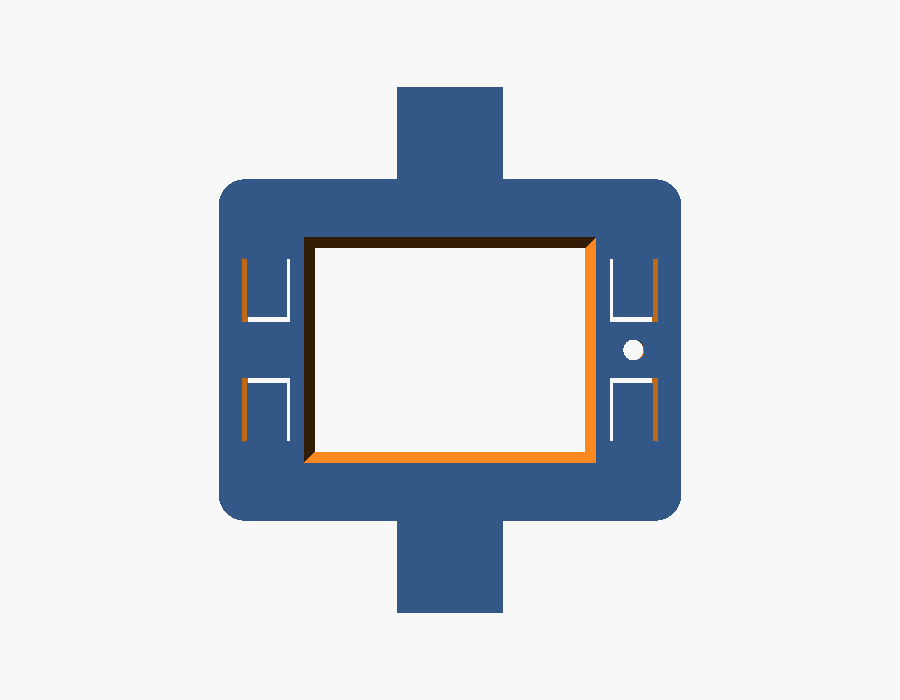
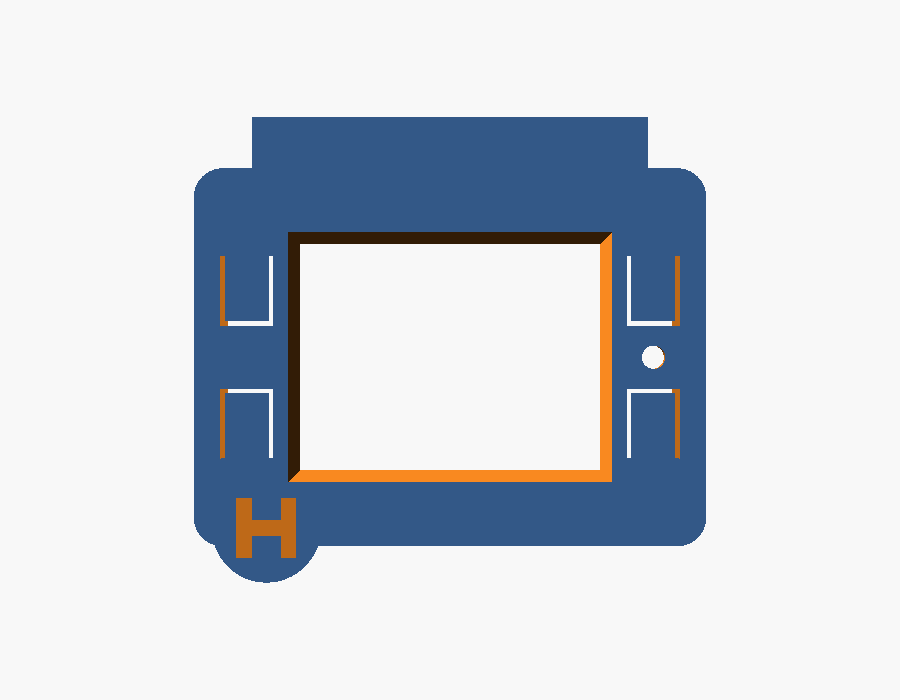
Gehäuse schlichter: geneigter Schreibtisch-Kasten, kleines vertieftes H, einfarbig
- Mast, Fuß und farbiges Schild entfernt; Keil-Sockel (10° Neigung) mit Überstand hinten
- Kabel per gewinkeltem Micro-USB durch Kerbe im Deckel
- Schild bündig mit der Frontplatte, H 0,6 mm vertieft

Changed region(s): [[0.2178, 0.12, 0.8089, 0.9]]

diff --git a/case/README.md b/case/README.md
@@ -1,10 +1,11 @@
 # Gehäuse: Mini-Haltestelle
 
-Parametrisches OpenSCAD-Modell. Von unten nach oben: Standfuß, Mast, Gehäuse mit Display,
-kurzer Mast, Haltestellenschild (grüner Kreis, gelbes „H"). Keine Logos von
-Verkehrsunternehmen.
+Parametrisches OpenSCAD-Modell eines schlichten Kastens für den Schreibtisch. Er steht um
+10° nach hinten geneigt auf einem schmalen Keil-Sockel. Einzige Anspielung auf die
+Haltestelle ist ein kleines rundes Schild oben rechts mit vertieftem „H", in derselben
+Farbe wie der Rest. Keine Logos von Verkehrsunternehmen.
 
-![Ansicht von vorn](vorschau/vorn.png) ![Explosionsansicht](vorschau/explosion.png)
+![Ansicht von vorn](vorschau/vorn.png) ![Rückseite](vorschau/hinten.png) ![Seite](vorschau/seite.png)
 
 ```bash
 make stl     # alle Teile nach stl/
@@ -19,22 +20,16 @@ openscad -D 'part="front"' -o front.stl mini-haltestelle.scad   # ein einzelnes 
 
 ## Teile
 
-| Teil | `part=` | Farbe | Lage im Drucker | Hinweise |
-|---|---|---|---|---|
-| Vorderteil | `front` | hellgrau/weiß | Vorderseite aufs Bett | keine Stützen nötig: Fenster mit Fase, Mastbohrungen als Tropfenform |
-| Deckel | `back` | hellgrau | Außenseite aufs Bett | Lüftungsschlitze, 4 Stützen zum Pi |
-| Mast | `mast` | grau | stehend | 100 % Füllung oder 4 Wände, sonst wackelig |
-| Mast oben | `mast_oben` | grau | stehend | |
-| Standfuß | `fuss` | dunkelgrau | flach | Mulde unten für Gewicht oder Filzgleiter |
-| Schild | `schild` | **grün** | flach | „H" ist vertieft |
-| H | `schild_h` | **gelb** | flach | in die Vertiefung kleben oder pressen (0,15 mm Spiel) |
-| Lichtleiter | `lichtleiter` | klar/natur (PETG) | stehend | optional, leitet die RGB-LED nach vorn |
+| Teil | `part=` | Lage im Drucker | Hinweise |
+|---|---|---|---|
+| Vorderteil mit Sockel und Schild | `front` | Vorderseite aufs Bett | keine Stützen nötig: Fenster mit Fase, das „H" ist eine Vertiefung in der ersten Schicht |
+| Deckel | `back` | Außenseite aufs Bett | Lüftungsschlitze, Kabelkerbe, 4 Stützen zum Pi |
+| Lichtleiter | `lichtleiter` | stehend | optional, klares/naturfarbenes PETG, leitet die RGB-LED nach vorn |
 
-Alternativ druckt man Schild und H in einem Teil mit Farbwechsel per Pause (M600) bei der
-Schichthöhe `sign_t − h_inlay`.
-
-Empfehlung PLA, 0,2 mm Schichthöhe, 3 Wände. Die Taster-Zungen im Vorderteil federn nur,
-wenn die Frontplatte nicht zu dick ist (`front_t` = 1,6 mm).
+Einfarbig drucken, z. B. anthrazit oder weiß. Empfehlung PLA, 0,2 mm Schichthöhe,
+3 Wände. Damit das „H" sauber wird, die erste Schicht nicht zu stark andrücken
+(Elephant's Foot schließt die 0,6-mm-Vertiefung sonst teilweise). Die Taster-Zungen federn
+nur, wenn die Frontplatte dünn bleibt (`front_t` = 1,6 mm).
 
 ## Material
 
@@ -43,19 +38,25 @@ wenn die Frontplatte nicht zu dick ist (`front_t` = 1,6 mm).
 | Pi Zero W + Display HAT Mini mit den beiliegenden 10-mm-Abstandshaltern | 1 |
 | M2 × 6 Blechschraube (Deckel) | 2 |
 | M2,5 × 8 Schraube (Deckel → Abstandshalter, ersetzt die kurzen Schrauben unter dem Zero) | 4 |
-| Micro-USB-Kabel mit **gewinkeltem** Stecker (passt besser durch die Aussparung) | 1 |
+| Micro-USB-Kabel mit **gewinkeltem** Stecker. Der Stecker muss nach hinten zeigen, wenn er von unten in der Buchse steckt. | 1 |
 
 ## Montage
 
 1. Display HAT und Zero wie vorgesehen mit den Abstandshaltern verschrauben, aber die vier
    Schrauben **unter** dem Zero weglassen.
-2. Stapel mit dem Display nach vorn ins Vorderteil legen. Das Glas liegt innen an der
+2. Gewinkeltes USB-Kabel einstecken, der Stecker zeigt nach hinten.
+3. Stapel mit dem Display nach vorn ins Vorderteil legen. Das Glas liegt innen an der
    Frontplatte, die Noppen der Zungen sitzen über den Tastern.
-3. Deckel aufsetzen, die vier M2,5-Schrauben durch die Stützen in die Abstandshalter
-   drehen. Danach die zwei M2-Schrauben in die Dome.
-4. Masten einstecken, Fuß und Schild aufstecken. Wenn es zu stramm sitzt, `peg_clr`
-   erhöhen. Wenn es wackelt, verringern oder einen Tropfen Kleber nehmen.
-5. Kabel an der Aussparung unten rechts einstecken und hinter dem Mast herunterführen.
+4. Deckel aufsetzen, Kabel durch die Kerbe unten führen. Die vier M2,5-Schrauben durch die
+   Stützen in die Abstandshalter drehen, dann die zwei M2-Schrauben in die Dome.
+
+## Anpassen
+
+| Variable | Wirkung |
+|---|---|
+| `tilt` | Neigung nach hinten. Mehr Neigung braucht mehr `base_h`, sonst läuft der Keil zu früh aus. |
+| `base_h`, `base_ext`, `base_inset` | Sockelhöhe vorn, Überstand hinten (gegen Kippen beim Drücken), seitlicher Einzug |
+| `sign_d`, `sign_rise`, `sign_inset`, `h_depth` | Größe und Lage des Schilds, Tiefe des „H" |
 
 ## Vor dem ersten Druck nachmessen
 
@@ -69,5 +70,9 @@ wenn die Frontplatte nicht zu dick ist (`front_t` = 1,6 mm).
 | `stack_h` | Unterseite Zero bis Glasoberkante | 17 |
 | `usb_pwr_x`, `sd_y` | Lage von Micro-USB und microSD am Zero (offiziell) | 54 / 16,9 |
 
-Messen geht am einfachsten so: Display HAT flach hinlegen, alle Maße von der **linken
-unteren Ecke** nehmen und dann in Mittenwerte umrechnen (Mitte = halbe Breite/Höhe).
+Koordinaten: `x` negativ ist **von vorn gesehen links**, Ursprung in der Mitte der Platinen.
+Am einfachsten das Display HAT flach hinlegen, alle Maße von der linken unteren Ecke
+nehmen und dann in Mittenwerte umrechnen (Mitte = halbe Breite bzw. Höhe).
+
+Die erste Fassung mit Mast, Standfuß und großem farbigem Schild liegt in der Git-Historie
+(Commit „Gehäuse-Entwurf (Phase 3)").
